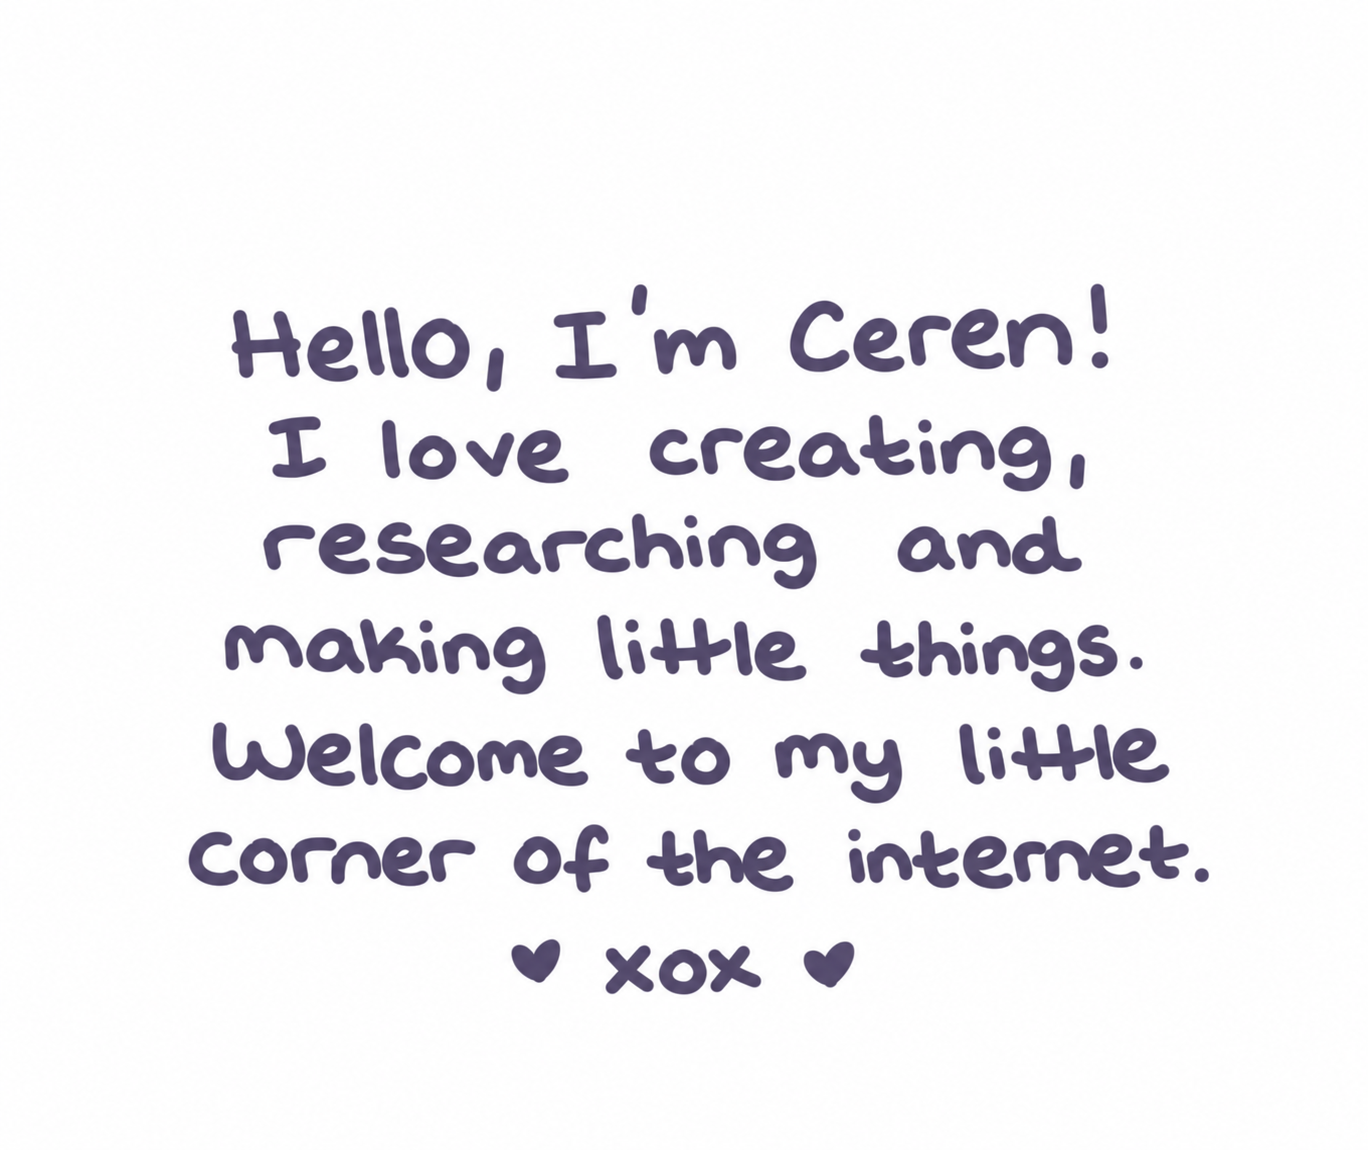
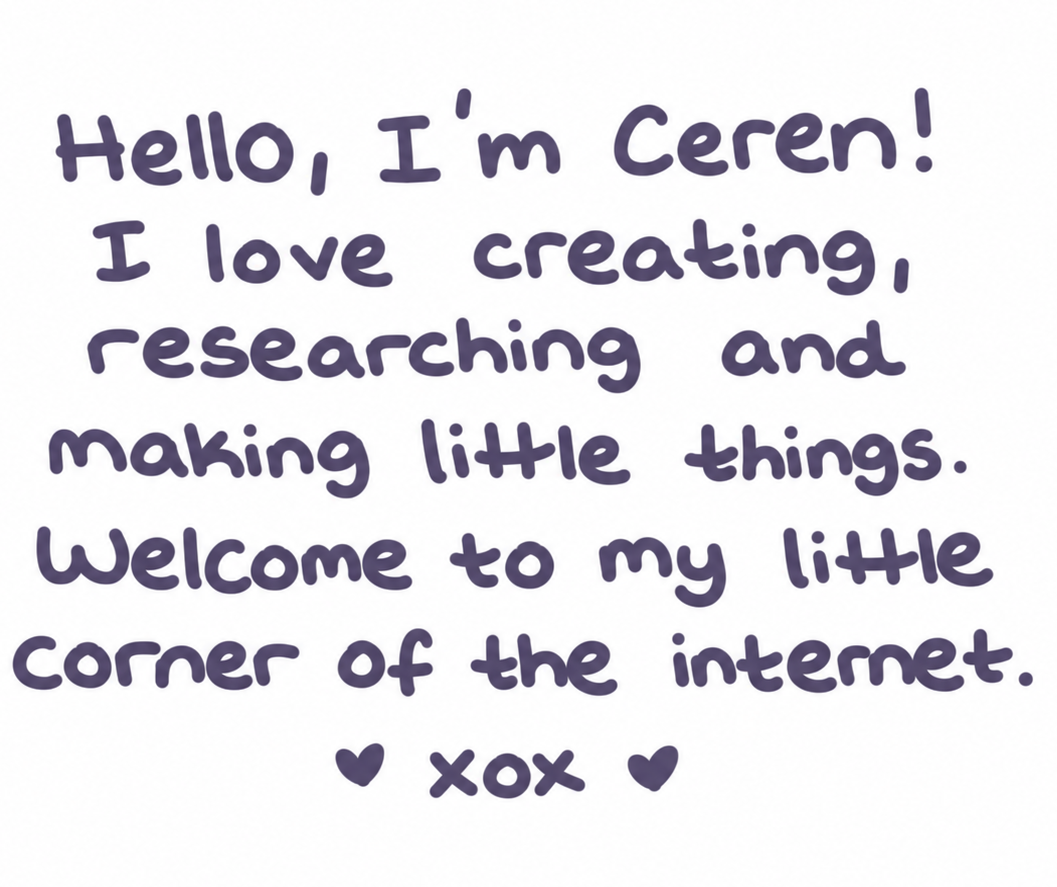
Fit polaroid back artwork

diff --git a/app/globals.css b/app/globals.css
@@ -180,7 +180,7 @@ body {
 .polaroid-front { transform: rotateY(0deg); }
 .polaroid-back { transform: rotateY(180deg); }
 .polaroid-photo { display: block; width: 100%; height: 100%; object-fit: cover; object-position: center 40%; background: #d9d9d1; }
-.polaroid-handwriting { display: block; width: 100%; height: 100%; object-fit: contain; transform: scale(1.08); }
+.polaroid-handwriting { display: block; width: 100%; height: 100%; object-fit: contain; }
 .about-drag-handle { position: absolute; z-index: 1; left: 5%; right: 5%; bottom: 4%; height: 12%; cursor: grab; touch-action: none; user-select: none; }
 .about-drag-handle:active { cursor: grabbing; }
 .about-close { position: absolute; z-index: 2; right: -12px; top: -12px; width: 40px; height: 40px; display: grid; place-items: center; padding: 0; border: 0; background: transparent; color: #79497c; cursor: pointer; }
